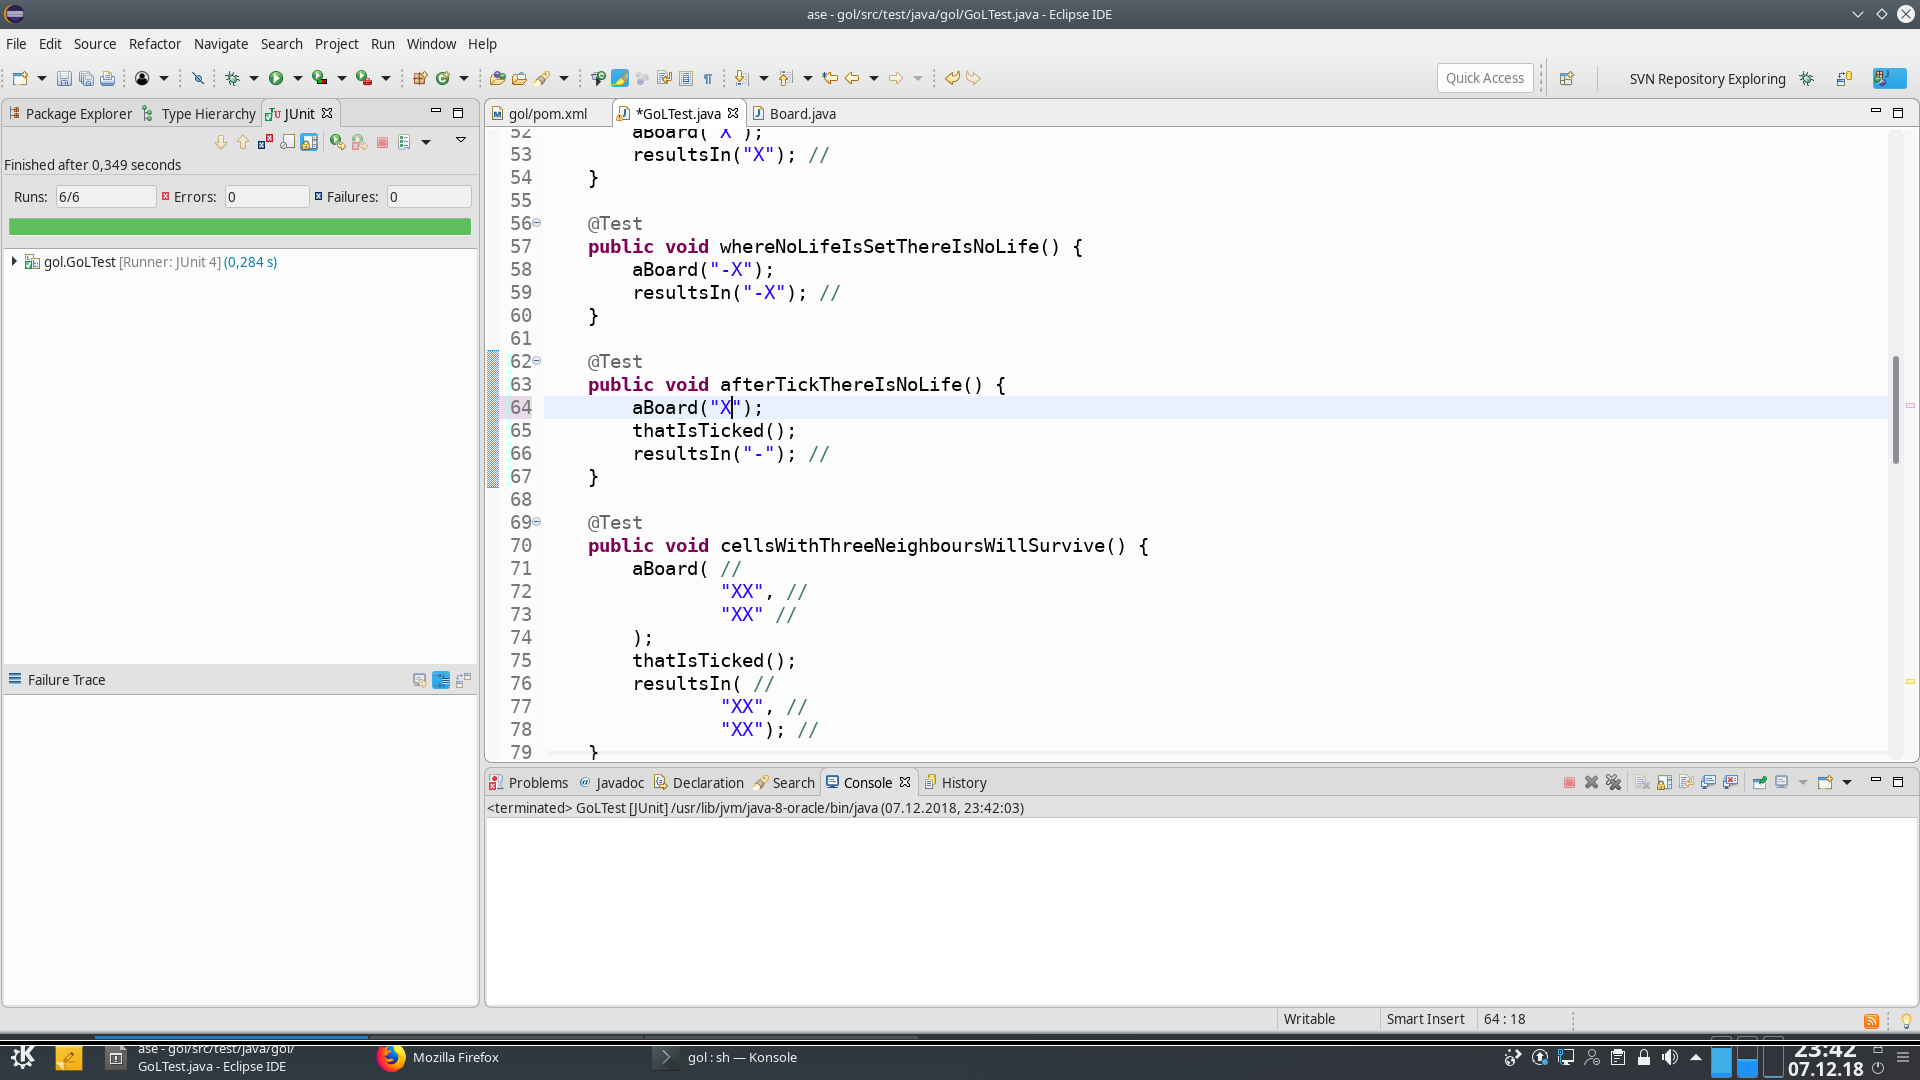
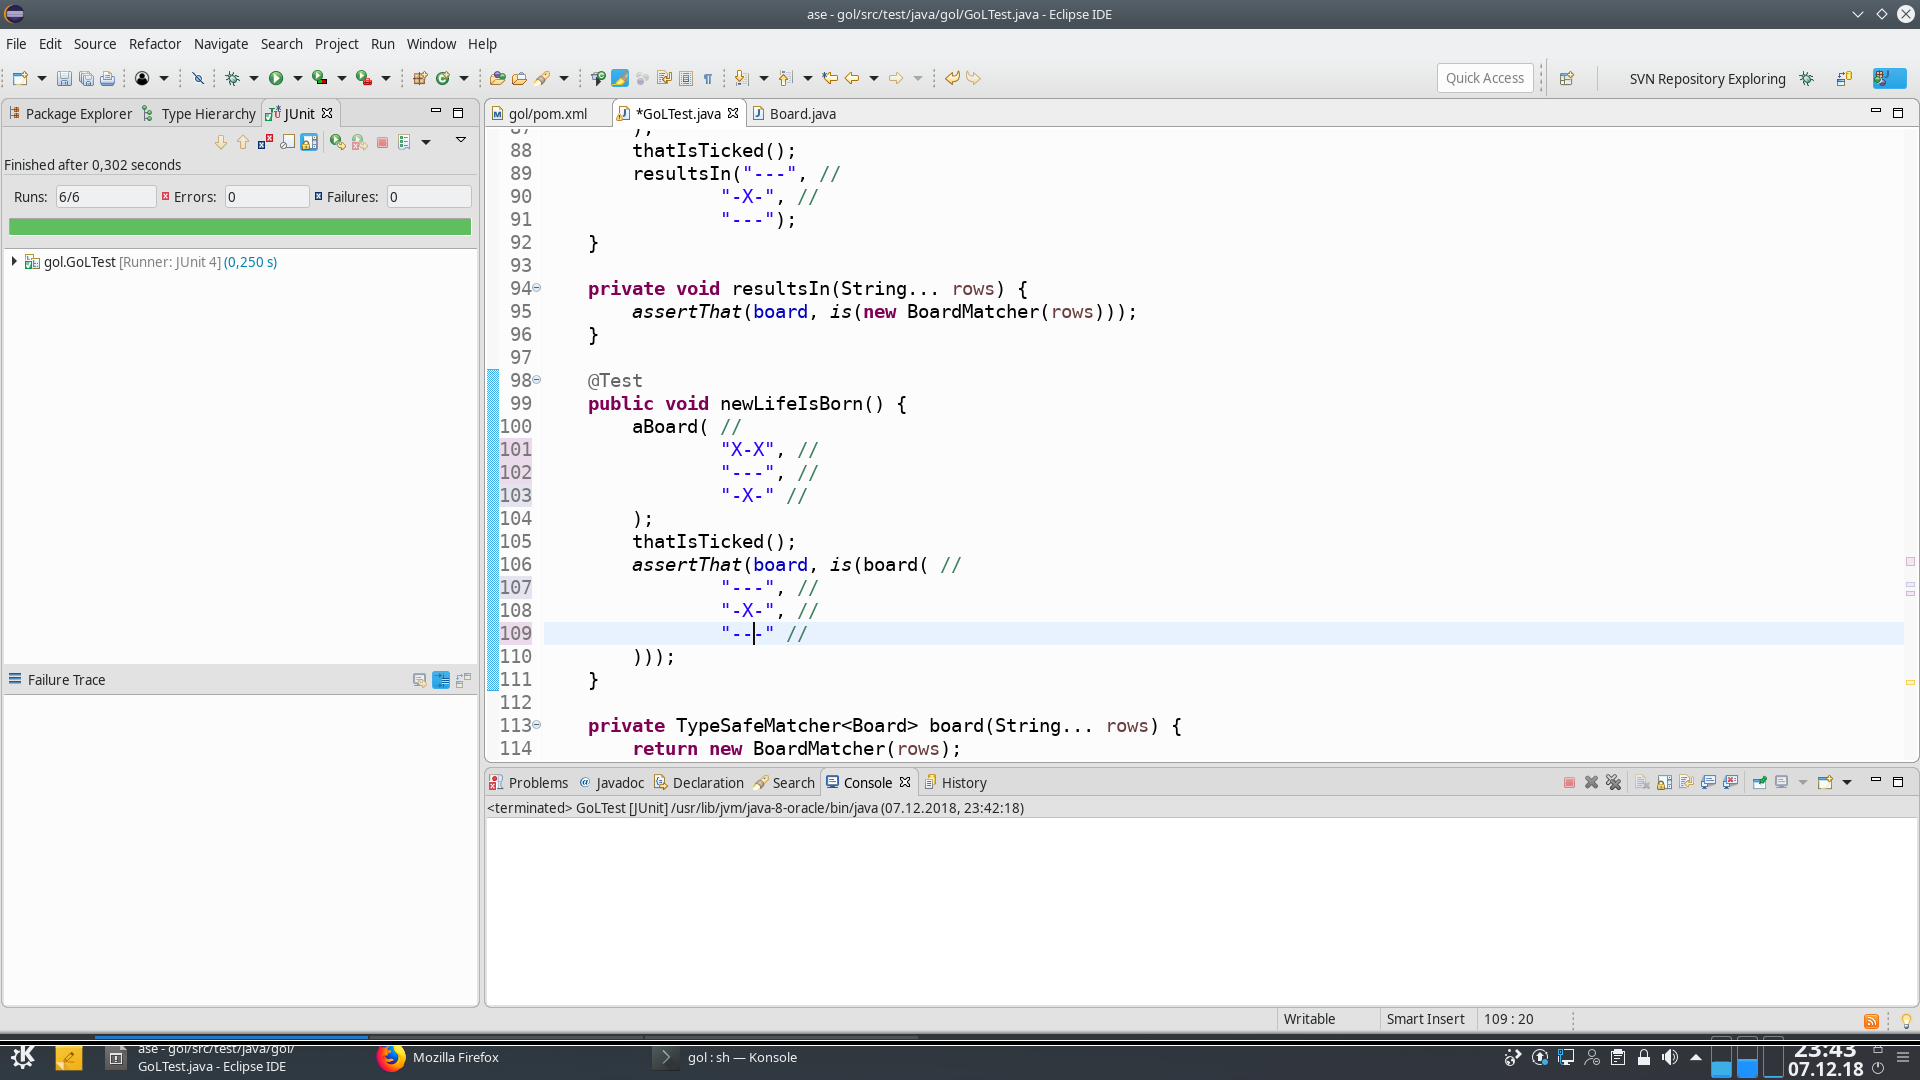
autocommit on change

diff --git a/src/test/java/gol/GoLTest.java b/src/test/java/gol/GoLTest.java
@@ -98,13 +98,15 @@ public class GoLTest {
 	@Test
 	public void newLifeIsBorn() {
 		aBoard( //
-				"XXX", //
-				"---" //
+				"X-X", //
+				"---", //
+				"-X-" //
 		);
 		thatIsTicked();
 		assertThat(board, is(board( //
+				"---", //
 				"-X-", //
-				"-X-" //
+				"---" //
 		)));
 	}
 
